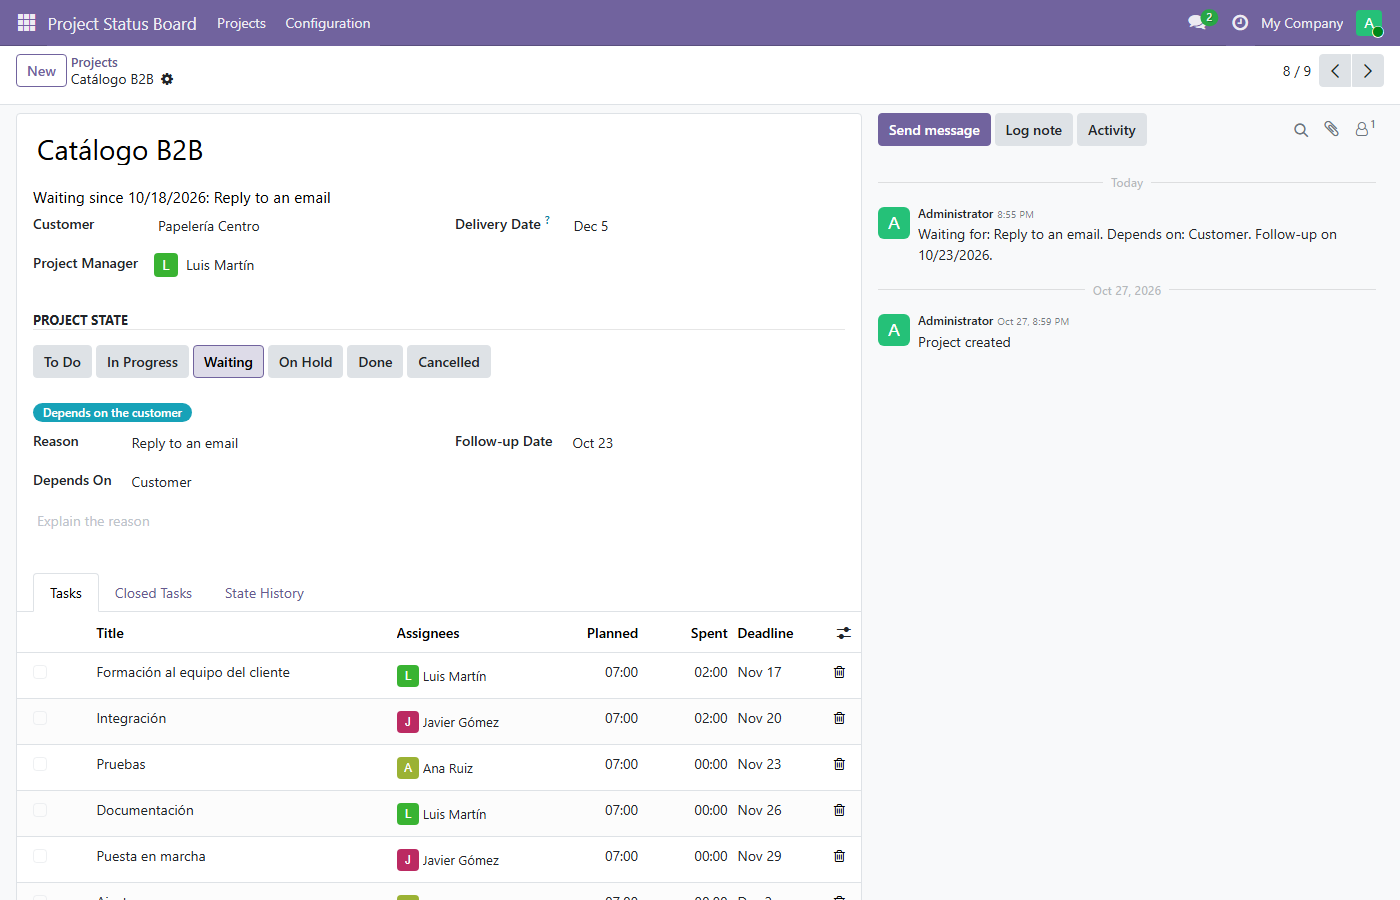
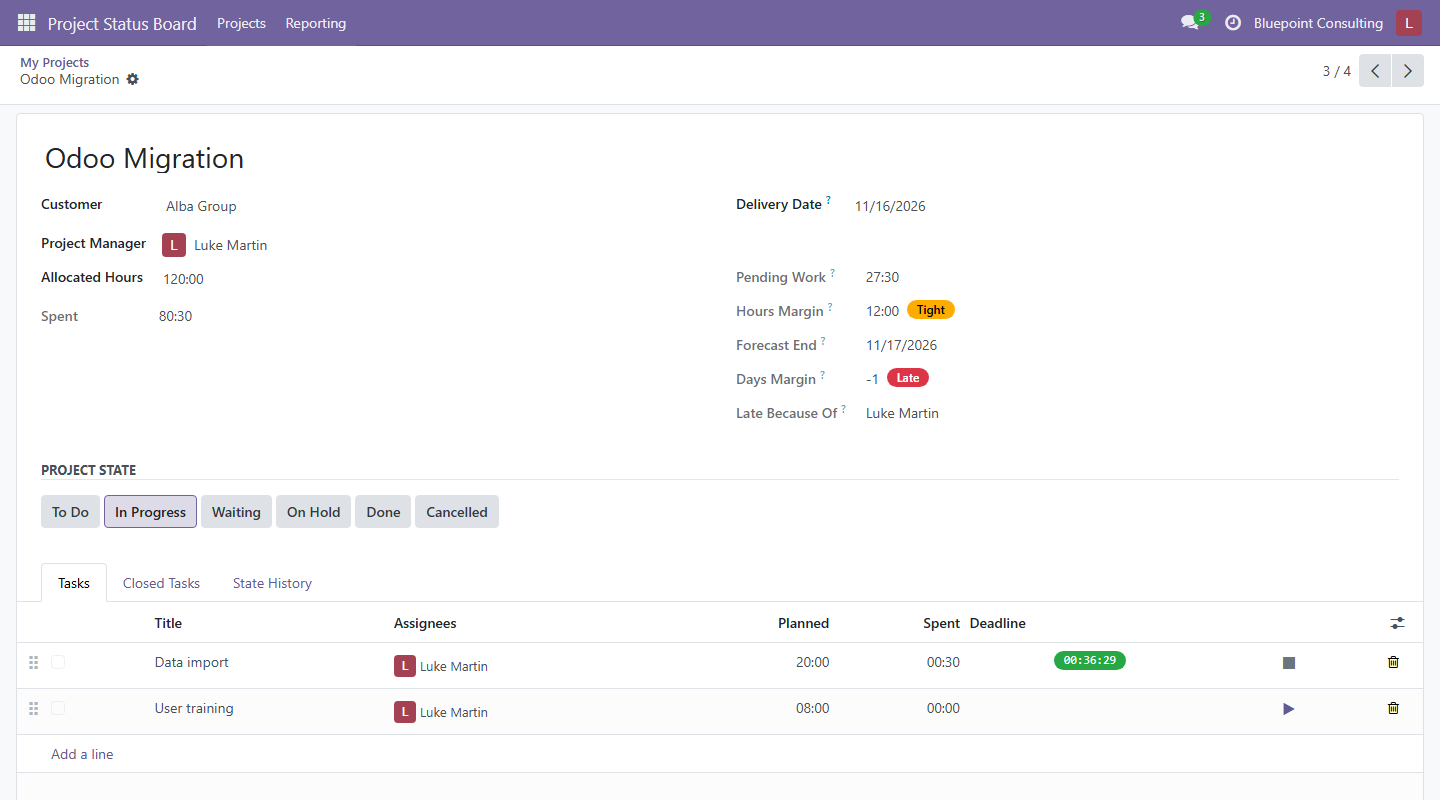
docs: pone al día la ficha de la Store de Project Status Board (18.0)
- Capturas nuevas y reales de 18.0, en inglés y con datos ficticios:
  tablero con los semáforos de horas y plazo, Riesgo de plazo, ficha con
  el cronómetro en marcha, Carga, Capacidad y motivos.
- index.html: margen de horas y de días, informes de carga y capacidad,
  cronómetro, y un paso de instalación para empleados, horario y
  gestiones diarias.
- README: las mismas funciones, la configuración de capacidad y el
  comando de exportación de traducciones de 18.0.
- CHANGELOG: fecha de la 18.0.0.1.0.

diff --git a/cimalor_project_status_board/static/description/index.html b/cimalor_project_status_board/static/description/index.html
@@ -9,17 +9,18 @@
         class="oe_mt32"
         style="font-size: 17px; max-width: 760px; margin: 24px auto 0"
       >
-        Project's stages tell you where a project is, not why it is stuck.
-        <strong>Project Status Board turns them into a board of states</strong>
-        and asks for the missing piece the moment a project stops: what it is
-        waiting for, who it depends on and when to chase it again.
+        Project's stages tell you where a project is, not why it is stuck nor
+        whether it will arrive.
+        <strong>Project Status Board turns them into a board of states</strong>,
+        asks why the moment a project stops, and shows on every card whether its
+        hours and its delivery date will hold.
       </p>
     </div>
     <div class="oe_span12 oe_mt32">
       <img
         class="oe_picture oe_screenshot"
         src="main_screenshot.png"
-        alt="Board of projects grouped by state, with the reason and follow-up date of waiting projects"
+        alt="Board of projects by state, with the waiting reason, the last comment and the hours and days traffic lights on each card"
       />
     </div>
   </div>
@@ -39,19 +40,18 @@
       </p>
     </div>
     <div class="oe_span4">
-      <h3 style="color: #2f5bd3">Who does it depend on?</h3>
+      <h3 style="color: #2f5bd3">Will the hours be enough?</h3>
       <p>
-        A waiting project waits on the customer, so a "waiting for the customer
-        since the 12th" is documented instead of remembered. A project on hold
-        says whether the pause is the customer's, a supplier's or ours.
+        Allocated hours left minus the work still planned on the open tasks. A
+        red clock warns that the project will go over budget before it does.
       </p>
     </div>
     <div class="oe_span4">
-      <h3 style="color: #2f5bd3">When do we chase it?</h3>
+      <h3 style="color: #2f5bd3">Will it arrive on time?</h3>
       <p>
-        Waiting projects carry a follow-up date that turns red once it has
-        passed. Projects on hold carry their restart date in a folded column, so
-        long pauses stay out of the way.
+        Each person works through their tasks by due date at their real
+        capacity. A red calendar says the project will be late, and who it waits
+        for.
       </p>
     </div>
   </div>
@@ -61,26 +61,35 @@
   <div class="oe_row oe_spaced">
     <div class="oe_span6">
       <h2 class="oe_slogan" style="text-align: left">
-        One form for the state and the work
+        Two traffic lights per project
       </h2>
       <ul class="oe_mt32" style="font-size: 16px; line-height: 1.7">
-        <li>The state as a row of buttons, with its reason and date.</li>
         <li>
-          The main tasks as a to-do list, with planned and spent hours. Tick a
-          task to close it; its planned hours are never touched.
+          <strong>Hours margin:</strong> red over budget, amber tight (under 10
+          % of the allocated hours), green with room.
         </li>
-        <li>Closed tasks apart, one click away from being reopened.</li>
         <li>
-          The full history of state changes: who, when, why. Never rewritten.
+          <strong>Days margin:</strong> working days between the forecast end
+          and the delivery date. Red late, amber two days or less, green on
+          time.
         </li>
-        <li>A note in the chatter every time a project starts waiting.</li>
+        <li>
+          The forecast takes every project of the same people into account, with
+          their working schedule, time off, public holidays and a daily admin
+          time.
+        </li>
+        <li>
+          Grey, never green, when there is not enough data to tell: no allocated
+          hours, no delivery date, nobody's schedule.
+        </li>
+        <li><em>Reporting › Date Risk</em> lists the projects at risk.</li>
       </ul>
     </div>
     <div class="oe_span6">
       <img
         class="oe_picture oe_screenshot"
-        src="screenshot_project_form.png"
-        alt="Project form with the state buttons, the waiting reason and the to-do list of tasks"
+        src="screenshot_date_risk.png"
+        alt="Date Risk report with the delivery date, forecast end, days margin and hours health of each project"
       />
     </div>
   </div>
@@ -91,10 +100,63 @@
     <div class="oe_span6">
       <img
         class="oe_picture oe_screenshot"
-        src="screenshot_reasons.png"
-        alt="Editable list of waiting and on hold reasons"
+        src="screenshot_project_form.png"
+        alt="Project form with the hours and days margins, the state buttons and the to-do list of tasks with a running timer"
       />
     </div>
+    <div class="oe_span6">
+      <h2 class="oe_slogan" style="text-align: left">
+        One form for the state and the work
+      </h2>
+      <ul class="oe_mt32" style="font-size: 16px; line-height: 1.7">
+        <li>The state as a row of buttons, with its reason and date.</li>
+        <li>
+          The main tasks as a to-do list with planned and spent hours. Tick a
+          task to close it; its planned hours are never touched.
+        </li>
+        <li>
+          A timer on every task: press play, and stop to log a standard
+          timesheet line with a required comment. The latest comment shows on
+          the card.
+        </li>
+        <li>
+          The full history of state changes: who, when, why. Never rewritten.
+        </li>
+      </ul>
+    </div>
+  </div>
+</section>
+
+<section class="oe_container">
+  <div class="oe_row oe_spaced">
+    <div class="oe_span12" style="text-align: center">
+      <h2 class="oe_slogan">Workload and capacity, per person</h2>
+      <p style="font-size: 16px; max-width: 760px; margin: 16px auto 0">
+        <em>Workload</em> splits the pending hours by person, project state and
+        due date. <em>Capacity</em> shows how many weeks of work each person has
+        and the day their queue ends, with on-hold work apart. Each person sees
+        their own figures; Project administrators see everybody's.
+      </p>
+    </div>
+    <div class="oe_span6 oe_mt32">
+      <img
+        class="oe_picture oe_screenshot"
+        src="screenshot_workload.png"
+        alt="Workload pivot with the pending hours of each person by project state"
+      />
+    </div>
+    <div class="oe_span6 oe_mt32">
+      <img
+        class="oe_picture oe_screenshot"
+        src="screenshot_capacity.png"
+        alt="Capacity list with daily and weekly capacity, pending hours, weeks of work and queue end of each person"
+      />
+    </div>
+  </div>
+</section>
+
+<section class="oe_container oe_dark">
+  <div class="oe_row oe_spaced">
     <div class="oe_span6">
       <h2 class="oe_slogan" style="text-align: left">
         Your reasons, your words
@@ -106,6 +168,13 @@
         such as <em>Other</em> require a note.
       </p>
     </div>
+    <div class="oe_span6">
+      <img
+        class="oe_picture oe_screenshot"
+        src="screenshot_reasons.png"
+        alt="Editable list of waiting and on hold reasons"
+      />
+    </div>
   </div>
 </section>
 
@@ -114,9 +183,11 @@
     <div class="oe_span12" style="text-align: center">
       <h2 class="oe_slogan">Built on Project, not next to it</h2>
       <p style="font-size: 16px; max-width: 760px; margin: 16px auto 0">
-        The columns are Project's own stages and the to-do list is Project's own
-        tasks. Nothing is copied into a parallel model, and the Project app
-        keeps working exactly as before. No dependency on Enterprise modules.
+        The columns are Project's own stages, the to-do list is Project's own
+        tasks and the timer logs standard timesheet lines. Nothing is copied
+        into a parallel model, and the Project app keeps working exactly as
+        before. No dependency on Enterprise modules, and no data is sent outside
+        your database.
       </p>
     </div>
   </div>
@@ -125,7 +196,7 @@
 <section class="oe_container oe_dark">
   <div class="oe_row oe_spaced">
     <div class="oe_span12" style="text-align: center">
-      <h2 class="oe_slogan">Up and running in four steps</h2>
+      <h2 class="oe_slogan">Up and running in five steps</h2>
     </div>
     <div class="oe_span12">
       <ol
@@ -145,8 +216,12 @@
           <em>Waiting</em> and <em>On Hold</em>.
         </li>
         <li>
-          Review the reasons under
-          <em>Project Status Board › Configuration › Reasons</em>.
+          Link each user to an employee with a working schedule, and adjust the
+          <em>Daily Admin Time</em> next to it (1 hour by default).
+        </li>
+        <li>
+          Give your projects allocated hours and a delivery date, and your tasks
+          planned hours.
         </li>
         <li>Open <em>Projects</em> and drag each project to its real state.</li>
       </ol>

diff --git a/cimalor_project_status_board/__manifest__.py b/cimalor_project_status_board/__manifest__.py
@@ -9,7 +9,10 @@
     "depends": ["project", "hr_timesheet"],
     "images": [
         "static/description/main_screenshot.png",
+        "static/description/screenshot_date_risk.png",
         "static/description/screenshot_project_form.png",
+        "static/description/screenshot_workload.png",
+        "static/description/screenshot_capacity.png",
         "static/description/screenshot_reasons.png",
     ],
     "data": [

diff --git a/cimalor_project_status_board/README.md b/cimalor_project_status_board/README.md
@@ -30,6 +30,18 @@ it is waiting for, who it depends on and when to chase it again.
   The chatter gets a note each time a project starts waiting or goes on hold.
 - **Configurable reasons**, ten to start with; On Hold ones propose who the project depends
   on.
+- **Hours margin on every card and form:** allocated hours left minus the pending work of
+  the open main tasks (planned minus spent, never below zero). Red over budget, amber tight
+  (under 10 % of the allocated hours), green with room; grey without allocated hours.
+- **Days margin on every card and form:** each person works through their tasks by due
+  date at their daily capacity; the project's forecast end is when its last open task ends,
+  and the margin is the working days to the delivery date. Red late (with who it is late
+  because of), amber two days or less, green on time; grey without delivery date or when
+  somebody has no working schedule. Board filters _Over Budget_, _Hours at Risk_, _Late_
+  and _Date at Risk_.
+- **Reporting:** _Workload_ (pending hours by person, project stage and due date),
+  _Capacity_ (daily and weekly capacity, weeks of work and queue end per person),
+  _Date Risk_ (projects at risk) and _Latest Changes_ (every state change).
 - Uses Project's own stages and tasks: no parallel data model, and the Project app keeps
   working exactly as before.
 
@@ -61,6 +73,12 @@ Hold stage next to the one that stayed: move the projects and delete the old one
 - **Stages:** Project Status Board › Configuration › Stages, which is Project's own stage
   list. Set the **State Type** of each stage; a stage without a type is shown but gets no
   special behaviour. Several stages may share a type.
+- **Capacity:** each person needs a user linked to an employee with a working schedule. The
+  **Daily Admin Time** next to the schedule, on the employee's _Work Information_ page (1
+  hour by default), is subtracted from each working day. Approved time off and public
+  holidays are taken into account through Odoo's resource leaves.
+- **Margins:** give projects their allocated hours and delivery date, and tasks their
+  planned hours. Tasks without planned hours count zero.
 
 ## Usage
 
@@ -95,8 +113,13 @@ Project **administrators** change any project and also manage the reasons.
 
 - Models: `cimalor.project.state.log` (history, read and create only),
   `cimalor.project.stop.reason`, `cimalor.project.timer` (running timers, each user sees
-  only their own) and the `cimalor.project.timer.stop` dialog; extensions of
-  `project.project`, `project.project.stage` and `project.task`.
+  only their own) and the `cimalor.project.timer.stop` dialog; the read-only reports
+  `cimalor.project.workload.report` (a database view) and `cimalor.project.capacity.report`;
+  `cimalor.project.queue`, the per-person work queue behind the capacity and the days
+  margin; extensions of `project.project`, `project.project.stage`, `project.task` and
+  `hr.employee`.
+- The days margin is computed when read, never stored: it depends on the other projects of
+  the same people, which `@api.depends` cannot follow.
 - The live counter is the module's only JavaScript: the `cimalor_timer` field widget, which
   shows "now minus start" every second, so it stays right after the computer sleeps.
 - The state type lives on the stage (`cimalor_state_type`); every rule reads it, never the
@@ -117,7 +140,7 @@ odoo -d test_db -i cimalor_project_status_board --test-enable --test-tags /cimal
 The template and the Spanish translation live in `i18n/`. Regenerate the template with:
 
 ```bash
-odoo i18n export -d test_db -l pot -o cimalor_project_status_board.pot cimalor_project_status_board
+odoo -d test_db --i18n-export=cimalor_project_status_board.pot --modules=cimalor_project_status_board --stop-after-init
 ```
 
 Merge the new entries into `i18n/es.po` by hand instead of overwriting it: the export drops

diff --git a/CHANGELOG.md b/CHANGELOG.md
@@ -108,7 +108,7 @@ Odoo version. The same functional version number means the same features in both
 
 ## cimalor_project_status_board — Project Status Board
 
-### [18.0.0.1.0] - Unreleased
+### [18.0.0.1.0] - 2026-11-12
 
 #### Added
 
